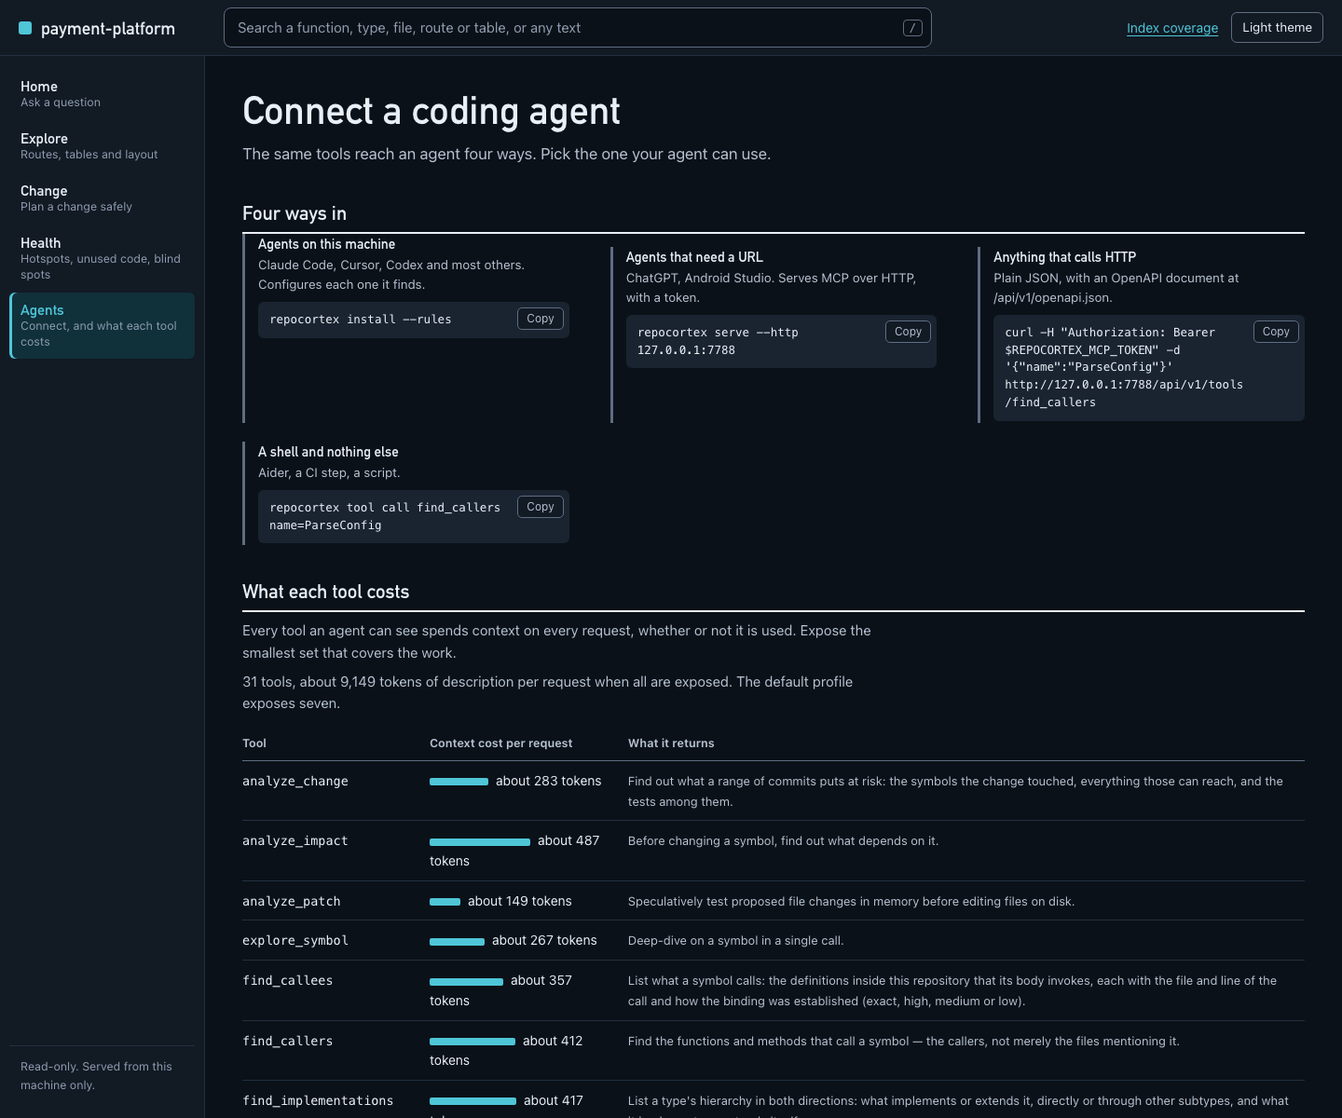
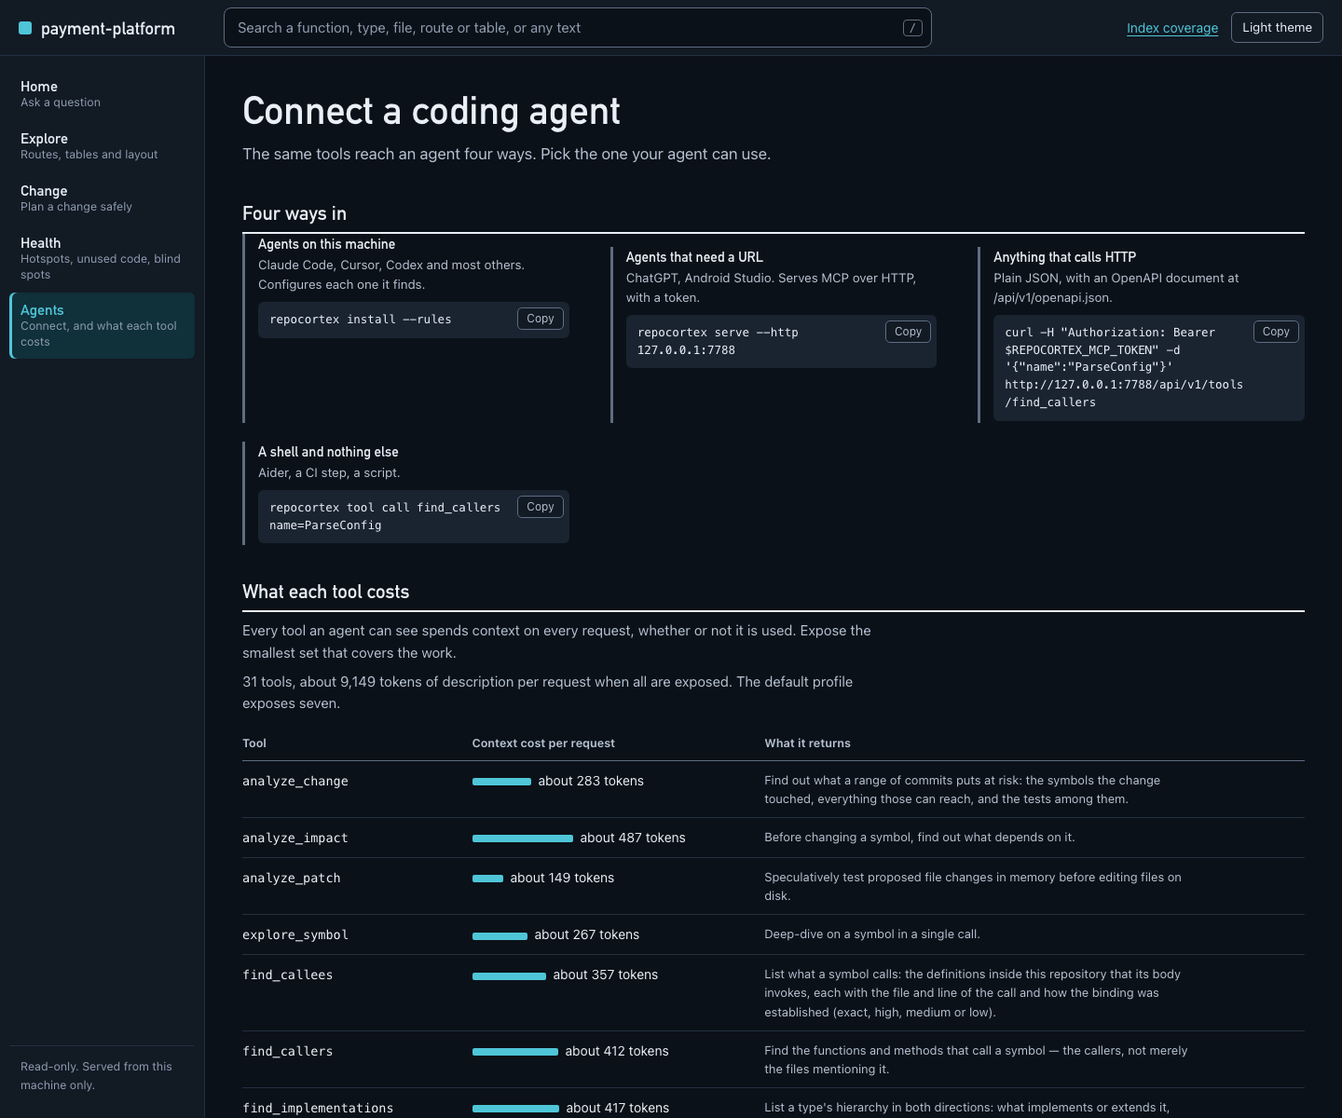
fix: portal tables fit their frame and symbol headings stay one sentence
Paths break only after '/' or '_', qualified names only after '.', '#',
'::' or '_', and the explanation column may break a quoted path, so a
table's last columns no longer sit past the edge behind a scrollbar macOS
hides. Below 1280px the notes beside an answer move under it, and a table
that still overflows shows a shadow on the side with more.

The symbol heading fell back to the tool's whole first line whenever an
answer was incomplete, because the counts pattern missed the clause between
the counts and the risk. It is now always a sentence, qualified ("at least",
"or higher") by the reliability level, with one plain line on why and the
tool's explanation folded under Why. Above a table the answer opens with
what was found; the caveat stays in "What this answer cannot see".

Tests run the page's counts pattern against the shapes the tool writes and
guard the heading and the wrapping rules. Screenshots retaken.

Changed region(s): [[0.1875, 0.6475, 0.9688, 1.0], [0.1875, 0.74, 0.25, 0.8942]]

diff --git a/internal/portal/assets/app.js b/internal/portal/assets/app.js
@@ -163,7 +163,28 @@ function symbolLink(name, path, line) {
   return h('a', { class: 'name', href: symbolHref(name, path, { line: line ? String(line) : '' }), text: name });
 }
 function fileLink(path, line) {
-  return h('a', { class: 'where', href: fileHref(path), text: line ? `${path}:${line}` : path });
+  return h('a', { class: 'where', href: fileHref(path) }, breakablePath(line ? `${path}:${line}` : path));
+}
+
+/* A path may break after each '/' or '_' and nowhere else. A table column then
+   takes the room of its longest word rather than of the whole path, and the
+   last column stays on screen; a path is never split inside a word. */
+function breakablePath(text) {
+  return breakAfter(text, /(?<=[\/_])/);
+}
+
+/* A qualified name may break after each '.', '#', '::' or '_' and nowhere
+   else, so Class.method wraps between the two and a snake_case name between
+   its words, never inside a word. */
+function breakableName(text) {
+  return breakAfter(text, /(?<=\.|#|::|_)/);
+}
+
+function breakAfter(text, at) {
+  const out = [];
+  for (const part of String(text).split(at)) out.push(part, h('wbr'));
+  out.pop();
+  return out;
 }
 
 /* The page a row's name leads to, or nothing when the name is not one thing:
@@ -184,7 +205,7 @@ function nameCell(item, path) {
   const href = item.kind === 'candidate' && item.path
     ? symbolHref(name, item.path, { line: item.line ? String(item.line) : '' })
     : hrefFor(item, path);
-  return href ? h('a', { class: 'name', href, text: name }) : h('span', { class: 'name', text: name });
+  return href ? h('a', { class: 'name', href }, breakableName(name)) : h('span', { class: 'name' }, breakableName(name));
 }
 
 /* itemsTable draws rows of one answer. `relationship` and `why` are column
@@ -205,6 +226,24 @@ function itemsTable(items, { showWhy = true, relationship = 'Relationship', why 
       graded && h('td', null, i.confidence ? tierMark(i.confidence) : ''),
       h('td', null, lineOnly ? h('span', { class: 'where', text: i.line || '' }) : (i.path ? fileLink(i.path, i.line) : '')),
       showWhy && h('td', null, h('span', { class: 'why', text: i.why || '' })))))));
+}
+
+/* REACH_SENTENCE reads the counts and the risk out of analyze_impact's
+   summary. Written in the syntax JavaScript and Go share, so the Go tests can
+   run it against the summaries the tool really writes. */
+const REACH_SENTENCE = /(\d+) direct, (\d+) indirect\b[\s\S]*?\bRisk (\w+)( or higher)?(?: \(([^)]*)\))?/;
+
+/* caveatFor says in one plain line why a symbol's figures are not the whole
+   story, with the tool's own explanation folded beneath it. */
+const CAVEATS = {
+  incomplete: 'Not every use is recorded, so these are the least the numbers could be.',
+  unverified: 'Some of these uses may be bound to the wrong definition. Check them before relying on them.',
+  low: 'Most uses in this language could not be connected, so this is a small part of them.',
+  none: 'Nothing in this language could be connected, so the index cannot say what uses it.',
+};
+function caveatFor(level, why) {
+  const line = CAVEATS[level] || 'The index cannot stand behind these numbers.';
+  return [h('p', { text: line }), why && h('details', null, h('summary', { text: 'Why' }), h('p', { text: why }))];
 }
 
 /* Notes that say what an answer cannot see come first: they change how far
@@ -272,13 +311,27 @@ function nothing(title, ...lines) {
   return h('div', { class: 'state' }, h('h2', { text: title }), lines.filter(Boolean).map((l) => (l.nodeType ? l : h('p', { text: l }))));
 }
 
+/* What an answer found, without the caveat the tool puts in front of it.
+   For an agent the summary opens "INCOMPLETE — <why>. <what was found>", so
+   the warning cannot be missed. On a page the aside beside the rows states
+   the same warning in full, and printing it above the rows as well buried the
+   sentence that introduces them. The caveat is removed only when it is the
+   reliability lead verbatim, so nothing the aside does not say is dropped. */
+function foundLine(answer) {
+  const summary = answer.summary || '';
+  const lead = (answer.reliability || {}).lead || '';
+  const m = /^[A-Z]+ — /.exec(summary);
+  if (!m || !lead || !summary.startsWith(m[0] + lead)) return summary;
+  return summary.slice(m[0].length + lead.length).trim() || summary;
+}
+
 /* answerBlock draws one tool's answer: its sentence, its rows, its limits. */
 function answerBlock(answer, opts = {}) {
   const items = answer.items || [];
   // With rows, the summary introduces them. Without, the summary IS the
   // answer and is shown once, as the heading of the empty state.
   const main = items.length
-    ? h('div', null, h('p', { class: 'sub', text: answer.summary || '' }), itemsTable(items, opts))
+    ? h('div', null, h('p', { class: 'sub', text: foundLine(answer) }), itemsTable(items, opts))
     : h('div', null, emptyState(answer));
   return h('div', { class: 'with-aside' }, main, h('aside', null, limitsNote(answer), askNote(answer), opts.aside));
 }
@@ -441,6 +494,7 @@ function symbolView({ name, path, line, tab = 'callers', floor = '' }) {
   remember(name, symbolHref(name, path, { line }));
   const header = h('div', null, h('p', { class: 'crumb busy', text: 'Looking it up' }));
   const verdict = h('p', { class: 'verdict' });
+  const caveat = h('div', { class: 'verdict-note' });
   const panel = h('div', { role: 'tabpanel', id: 'tabpanel' });
   const cache = new Map();
 
@@ -456,7 +510,7 @@ function symbolView({ name, path, line, tab = 'callers', floor = '' }) {
       h('p', { class: 'crumb' }, def ? fileLink(def.path, def.line) : 'Not found in the index'),
       h('div', { class: 'entity' }, h('h1', { text: name }), def && def.kind && h('span', { class: 'tag', text: kindWord(def.kind) }),
         (a.items || []).length > 1 && h('span', { class: 'tag', text: `${a.items.length} definitions share this name` }), own, serves));
-    if (!def) verdict.textContent = a.summary || '';
+    if (!def) verdict.textContent = 'Not found in the index.';
     // A function that answers a route says so, and leads to the route's page.
     if (def) {
       ask('list_api_endpoints').then((eps) => {
@@ -482,24 +536,36 @@ function symbolView({ name, path, line, tab = 'callers', floor = '' }) {
   for (const t of SYMBOL_TABS) cache.set(t.id, preload(t));
 
   // The one-sentence answer: the judgement from analyze_impact, and how many
-  // tests reach the symbol.
+  // tests reach the symbol. It stays one sentence whatever the index can vouch
+  // for. When it cannot vouch for the numbers, the sentence says how (at
+  // least, or recorded), a line under it says why in plain words, and the
+  // tool's own explanation is one click away; the reach tab's "What this
+  // answer cannot see" lists every reason. Printing the tool's whole first
+  // line as the heading put eighty words where one sentence belongs.
   Promise.allSettled([cache.get('reach'), cache.get('tests')]).then(([reach, tests]) => {
     if (reach.status !== 'fulfilled') return;
-    const m = /(\d+) direct, (\d+) indirect\. Risk (\w+)( or higher)?/.exec(reach.value.summary || '');
-    if (!m) { if (!verdict.textContent) verdict.textContent = reach.value.summary || ''; return; }
-    const [, direct, indirect, risk, orHigher] = m;
-    // The tool's own first line when the index cannot stand behind the
-    // numbers: it says which, and a tidy sentence built from them would not.
-    const level = (reach.value.reliability || {}).level || 'good';
-    // "Risk low or higher (...)" says why the level is a floor; a tidy "Risk is
-    // low." would drop it.
-    if (risk === 'unknown' || orHigher || level !== 'good') { verdict.textContent = reach.value.summary || ''; return; }
-    const parts = ['Used directly in ', h('b', { text: `${direct} place${direct === '1' ? '' : 's'}` }),
-      '. A change can reach ', h('b', { text: `${Number(direct) + Number(indirect)} symbols` })];
+    const r = reach.value;
+    const rel = r.reliability || {};
+    const level = rel.level || 'good';
+    // "45 direct, 535 indirect; at least 6 more ... Risk moderate or higher (...)":
+    // the counts and the risk can have a clause between them.
+    const m = REACH_SENTENCE.exec(r.summary || '');
+    if (!m || level === 'none') {
+      if (!verdict.textContent) verdict.textContent = 'The index cannot say what a change to it would reach.';
+      caveat.replaceChildren(...caveatFor(level, rel.lead || r.summary || ''));
+      return;
+    }
+    const [, direct, indirect, risk, orHigher, riskWhy] = m;
+    const floor = level === 'incomplete' || level === 'low';
+    const atLeast = floor ? 'at least ' : '';
+    const parts = ['Used directly in ', h('b', { text: `${atLeast}${direct} place${direct === '1' ? '' : 's'}` }),
+      '. A change can reach ', h('b', { text: `${atLeast}${Number(direct) + Number(indirect)} symbols` })];
     const n = tests.status === 'fulfilled' ? ((tests.value.page || {}).total ?? (tests.value.items || []).length) : 0;
     if (n) parts.push(', and ', h('b', { text: `${n}${tests.value.truncated ? '+' : ''} test${n === 1 ? '' : 's'}` }), ' reach it');
-    parts.push(`. Risk is ${risk}.`);
+    parts.push(risk === 'unknown' ? '. Its risk could not be judged.' : `. Risk is ${risk}${orHigher ? ' or higher' : ''}.`);
     verdict.replaceChildren(...parts);
+    if (level !== 'good') caveat.replaceChildren(...caveatFor(level, rel.lead || ''));
+    else if (orHigher && riskWhy) caveat.replaceChildren(h('p', { text: `The risk is a floor: ${riskWhy}.` }));
   });
 
   const tabs = h('div', { class: 'tabs', role: 'tablist', 'aria-label': `Views of ${name}` },
@@ -561,7 +627,7 @@ function symbolView({ name, path, line, tab = 'callers', floor = '' }) {
     const want = sessionStorage.getItem('repocortex.focusTab');
     if (want) { sessionStorage.removeItem('repocortex.focusTab'); const b = $(`#tab-${want}`); if (b) b.focus(); }
   });
-  return [header, verdict, tabs, panel];
+  return [header, verdict, caveat, tabs, panel];
 }
 
 // ---------------------------------------------------------------- a file, a route, a table

diff --git a/internal/portal/assets/app.css b/internal/portal/assets/app.css
@@ -136,6 +136,18 @@ main:focus { outline: none; }
 
 /* ---------------------------------------------------------------- tables */
 .table-wrap { overflow-x: auto; margin-top: 14px; }
+/* A table wider than its frame scrolls, and macOS hides the scrollbar until
+   then, so the cut-off columns looked like the end of the table. A shadow
+   now sits on each edge that has more beyond it: the two "local" layers move
+   with the content and cover the shadows at the ends it has reached, the two
+   "scroll" layers stay on the frame's edges. A table that fits shows none. */
+.table-wrap {
+  background:
+    linear-gradient(to right, var(--ground) 40%, transparent) left center / 48px 100% no-repeat local,
+    linear-gradient(to left, var(--ground) 40%, transparent) right center / 48px 100% no-repeat local,
+    radial-gradient(farthest-side at 0 50%, color-mix(in srgb, var(--ink) 28%, transparent), transparent) left center / 16px 100% no-repeat scroll,
+    radial-gradient(farthest-side at 100% 50%, color-mix(in srgb, var(--ink) 28%, transparent), transparent) right center / 16px 100% no-repeat scroll;
+}
 table { border-collapse: collapse; width: 100%; font-size: 14px; }
 th { text-align: left; font-size: 12.5px; font-weight: 650; color: var(--ink-2); padding: 8px 14px 8px 0; border-bottom: 1px solid var(--line-strong); white-space: nowrap; }
 td { padding: 10px 14px 10px 0; border-bottom: 1px solid var(--line); vertical-align: top; }
@@ -143,15 +155,20 @@ td.num, th.num { text-align: right; font-variant-numeric: tabular-nums; }
 .name { font-family: var(--mono); font-size: 13.5px; overflow-wrap: anywhere; }
 .where { font: 12.5px var(--mono); color: var(--ink-3); overflow-wrap: anywhere; }
 /* In a table a name or a place is not broken mid-word: a column three letters
-   wide is unreadable. The column takes the room its longest word needs, and
-   the table scrolls inside its own frame when that is more than the page has. */
+   wide is unreadable. A place breaks only after a '/', a name only after a
+   '.', '#' or '::' (breakablePath, breakableName in app.js), so a column takes
+   the room of its longest part and the table fits its frame; it scrolls inside
+   the frame only when even that is more than the page has. */
 td .name, td .where { overflow-wrap: normal; }
-td .name { white-space: nowrap; }
 /* A place is a link to its file's page. It stays as quiet as the text it
    replaced; the underline, not the colour, says it can be followed. */
 a.where { text-decoration-color: var(--line-strong); }
 a.where:hover { color: var(--accent); text-decoration-color: currentColor; }
 .why { font-size: 13px; color: var(--ink-2); max-width: 56ch; }
+/* The explanation column is prose that can quote a whole path, one long word
+   that would set the column's width and push it past the frame. Prose may
+   break inside such a word; a name or a place in its own column may not. */
+td .why { display: block; overflow-wrap: anywhere; }
 .kindtag { font-size: 12.5px; color: var(--ink-2); white-space: nowrap; }
 
 /* ---------------------------------------------------------------- symbol page */
@@ -164,6 +181,12 @@ a.tag:hover { background: var(--accent-soft); border-color: var(--accent); }
 .tags { display: contents; }
 .verdict { margin-top: 16px; font: 700 22px/1.3 var(--display); max-width: 48ch; text-wrap: balance; }
 .verdict b { color: var(--accent); font-weight: 700; }
+.verdict-note { margin-top: 8px; max-width: 72ch; font-size: 14px; color: var(--ink-2); }
+.verdict-note:empty { display: none; }
+.verdict-note p { margin: 0; }
+.verdict-note details { margin-top: 4px; }
+.verdict-note summary { cursor: pointer; color: var(--accent); width: max-content; }
+.verdict-note details p { margin-top: 6px; overflow-wrap: anywhere; }
 /* A name inside the sentence is read at the sentence's size, in the code face. */
 .verdict .name { font-size: .86em; font-weight: 600; }
 .tabs { display: flex; gap: 2px; margin-top: 26px; border-bottom: 1px solid var(--line-strong); overflow-x: auto; }
@@ -214,6 +237,13 @@ a.tag:hover { background: var(--accent-soft); border-color: var(--accent); }
 .bar { display: inline-block; height: 8px; border-radius: 2px; background: var(--accent); vertical-align: middle; margin-right: 8px; }
 .toast { position: fixed; bottom: 22px; left: 50%; transform: translateX(-50%); background: var(--ink); color: var(--sheet); padding: 8px 16px; border-radius: 6px; font-size: 14px; opacity: 0; pointer-events: none; }
 .toast.on { opacity: 1; }
+
+/* Between a phone and a wide screen the side notes would leave the answer a
+   sliver: at 1024px wide, 350px for a table that needs 950. They move under
+   the answer instead, and the answer gets the page's full width. */
+@media (max-width: 1280px) {
+  .with-aside { grid-template-columns: minmax(0, 1fr); gap: 10px; }
+}
 
 @media (max-width: 900px) {
   /* Search is what a reader came for, so on a phone it has a row to itself. */

diff --git a/internal/portal/portal_test.go b/internal/portal/portal_test.go
@@ -465,3 +465,87 @@ func TestRefusesAWriteToAPage(t *testing.T) {
 		t.Errorf("Allow = %q, want the methods a page accepts", got)
 	}
 }
+
+// ---------------------------------------------------------------- symbol verdict and tables
+
+// The symbol page reads the counts and the risk out of analyze_impact's
+// summary. When the pattern missed, the page printed the tool's whole first
+// line as its heading: on a real repository, eighty words where one sentence
+// belongs, because an incomplete answer puts a clause between the counts and
+// the risk. The pattern is taken from the page itself and run against every
+// shape the tool writes.
+func TestTheReachSentenceReadsEveryShapeTheToolWrites(t *testing.T) {
+	js := asset(t, "app.js")
+	m := regexp.MustCompile(`const REACH_SENTENCE = /(.+)/;`).FindStringSubmatch(js)
+	if m == nil {
+		t.Fatal("app.js no longer defines REACH_SENTENCE")
+	}
+	re, err := regexp.Compile(m[1])
+	if err != nil {
+		t.Fatalf("REACH_SENTENCE must stay in the syntax Go shares, so this test can run it: %v", err)
+	}
+	cases := []struct {
+		summary                string
+		direct, indirect, risk string
+		orHigher               bool
+	}{
+		{"updateStatus (a/T.java:18): 2 direct, 2 indirect. Risk low (score 0).", "2", "2", "low", false},
+		{"INCOMPLETE — f: its name appears in at least 1 other place(s) that are not recorded as calls. " +
+			"f (a.py:140): 45 direct, 535 indirect; at least 6 more symbol(s) at low confidence are excluded; " +
+			"pass min_confidence=low. Risk moderate or higher (score 45; the analysis was cut at depth 3).",
+			"45", "535", "moderate", true},
+		{"Run (x.go:9): 3 direct, 1 indirect, 2 reached by interface dispatch. Risk high (score 70).", "3", "1", "high", false},
+		{"g (y.ts:4): 0 direct, 0 indirect. Risk unknown.", "0", "0", "unknown", false},
+	}
+	for _, c := range cases {
+		got := re.FindStringSubmatch(c.summary)
+		if got == nil {
+			t.Errorf("no match for %q", c.summary)
+			continue
+		}
+		if got[1] != c.direct || got[2] != c.indirect || got[3] != c.risk || (got[4] != "") != c.orHigher {
+			t.Errorf("%q read as %q direct, %q indirect, risk %q, or-higher %q", c.summary, got[1], got[2], got[3], got[4])
+		}
+	}
+}
+
+// Whatever the index can vouch for, the heading is a sentence the page builds;
+// the tool's own explanation goes in the fold under it.
+func TestTheSymbolHeadingIsNeverTheToolsFirstLine(t *testing.T) {
+	js := asset(t, "app.js")
+	start := strings.Index(js, "// The one-sentence answer")
+	end := strings.Index(js, "const tabs = h('div', { class: 'tabs'")
+	if start < 0 || end < start {
+		t.Fatal("cannot find the symbol verdict in app.js")
+	}
+	block := js[start:end]
+	for _, bad := range []string{"textContent = r.summary", "textContent = reach.value.summary", "textContent = a.summary"} {
+		if strings.Contains(block, bad) {
+			t.Errorf("the symbol heading is set from the tool's summary again (%s)", bad)
+		}
+	}
+	if !strings.Contains(block, "caveatFor(") {
+		t.Error("an answer the index cannot vouch for no longer says why under the heading")
+	}
+}
+
+// A table must fit the frame it is drawn in. A path that could not wrap, or a
+// qualified name kept on one line, pushed the last columns past the edge,
+// where a scrollbar macOS hides made them look cut off.
+func TestTablesBreakNamesAndPathsAtTheirSeparators(t *testing.T) {
+	js, css := asset(t, "app.js"), asset(t, "app.css")
+	for _, want := range []string{
+		"href: fileHref(path) }, breakablePath(",
+		"h('a', { class: 'name', href }, breakableName(name))",
+	} {
+		if !strings.Contains(js, want) {
+			t.Errorf("app.js: %q is missing", want)
+		}
+	}
+	if regexp.MustCompile(`td \.name\s*\{[^}]*white-space:\s*nowrap`).MatchString(css) {
+		t.Error("app.css keeps a name in a table on one line again")
+	}
+	if !regexp.MustCompile(`td \.why\s*\{[^}]*overflow-wrap:\s*anywhere`).MatchString(css) {
+		t.Error("app.css: the explanation column may no longer break a quoted path")
+	}
+}

diff --git a/CHANGELOG.md b/CHANGELOG.md
@@ -11,6 +11,7 @@ from an actual run.
 
 ## [Unreleased]
 
+- **Portal tables fit their frame, and a symbol's heading stays one sentence.** A path now breaks only after `/` or `_` and a qualified name only after `.`, `#`, `::` or `_`, and the explanation column may break a quoted path, so a table's last columns no longer sit past the edge behind a scrollbar macOS hides (on a 25,000-file repository a callers table needed 949px and got 350). Below 1280px wide the notes beside an answer move under it, and a table that still overflows shows a shadow on the side with more. A symbol's heading used to be the tool's whole first line whenever an answer was incomplete, because the counts pattern missed the clause between them and the risk; it is now always a sentence ("Used directly in at least 45 places … Risk is moderate or higher."), with one plain line on why and the tool's explanation folded under **Why**. Above a table the answer opens with what was found; the caveat stays in "What this answer cannot see".
 - **`repocortex ui` serves the redesigned portal, and the previous portal is retired.** The portal that `ui --next` served is now the only one: five sections (Home, Explore, Change, Health, Agents) and a page for each function, type, file, route and table, every figure a call to the same tools an agent uses under `/api/v1`. The twenty-three-screen portal (`internal/web`), its Playwright suite and its CI job are deleted. It is served on loopback only: `--host` accepts 127.0.0.1, ::1 or localhost and refuses anything else, because the portal has no login. `--allow-refresh` is removed and says so (no route writes; run `repocortex index` or `repocortex watch`); `--next` and `--max-nodes` still parse and do nothing. `ui --json` no longer reports `allow_refresh`. The portal guide and its screenshots describe the new portal.
 - **Context packs search each function's own text.** Full-text search ranked whole files, and bm25 favours short ones, so a long module holding the function a task is about ranked out of reach: on a 25,000-file repository a 12,000-line service module ranked 2,315th for "audit", far outside the fifty files a pack reads, and when a long file did match, all its functions carried the same evidence. Every function and method now has its own full-text row (a contentless FTS5 table, migration 0021), and a pack ranks definitions by the whole task at once and seeds the call-graph walk from the best of them. For "add an audit log entry when a task status changes" on that repository the pack now opens with the shared audit service's `log_status_change` and the service methods that call it on each status transition. Each item says which function's text matched (`… (in log_status_change)`), and an item seeded by text no longer claims to be "named by the task". Cost, measured: +4% index time and +4% index size on this repository (12.1 s vs 11.7 s; 1.5 MB of 42 MB); an existing index fills the rows on its next update, 13.7 s for 125,122 definitions and 18 MB on the 1.6 GB index above; pack latency unchanged.
 - **Express cross-file router mounts (`app.use`).** Like FastAPI and Flask, Express applications declare sub-routers in separate modules (`routes/users.js`) and mount them from the application root with a prefix (`app.use('/api/v1/users', usersRouter)`). RepoCortex now joins CommonJS `require()` and ES module imports (default, named and namespace) across files and renames each route to the URL it is served at (`GET /:id` becomes `GET /api/v1/users/:id`). Middleware between the path and the router, a router required inline, routers mounted on mounted routers, and TypeScript sources imported as `./users.js` are followed. A router served under two prefixes keeps its own path, mounts made by test files are ignored, and a removed mount takes its prefix with it on the next run.

diff --git a/docs/guides/portal-guide.md b/docs/guides/portal-guide.md
@@ -212,7 +212,16 @@ appear. It is not a relationship.
 
 One page per function, method or type. It opens with a sentence that sums up
 the symbol: how many places use it directly, what a change can reach, and the
-risk. The tabs, with their counts:
+risk.
+
+When the index cannot vouch for those numbers, the sentence says so in its
+wording ("at least 45 places", "Risk is moderate or higher") and one line under
+it says why in plain words, for example "Not every use is recorded, so these
+are the least the numbers could be." **Why** unfolds the index's own
+explanation, and each tab's "What this answer cannot see" box lists every
+reason in full.
+
+The tabs, with their counts:
 
 - **Callers.** What calls it. Each row is a call site.
 - **Calls.** What it calls, inside this repository.
